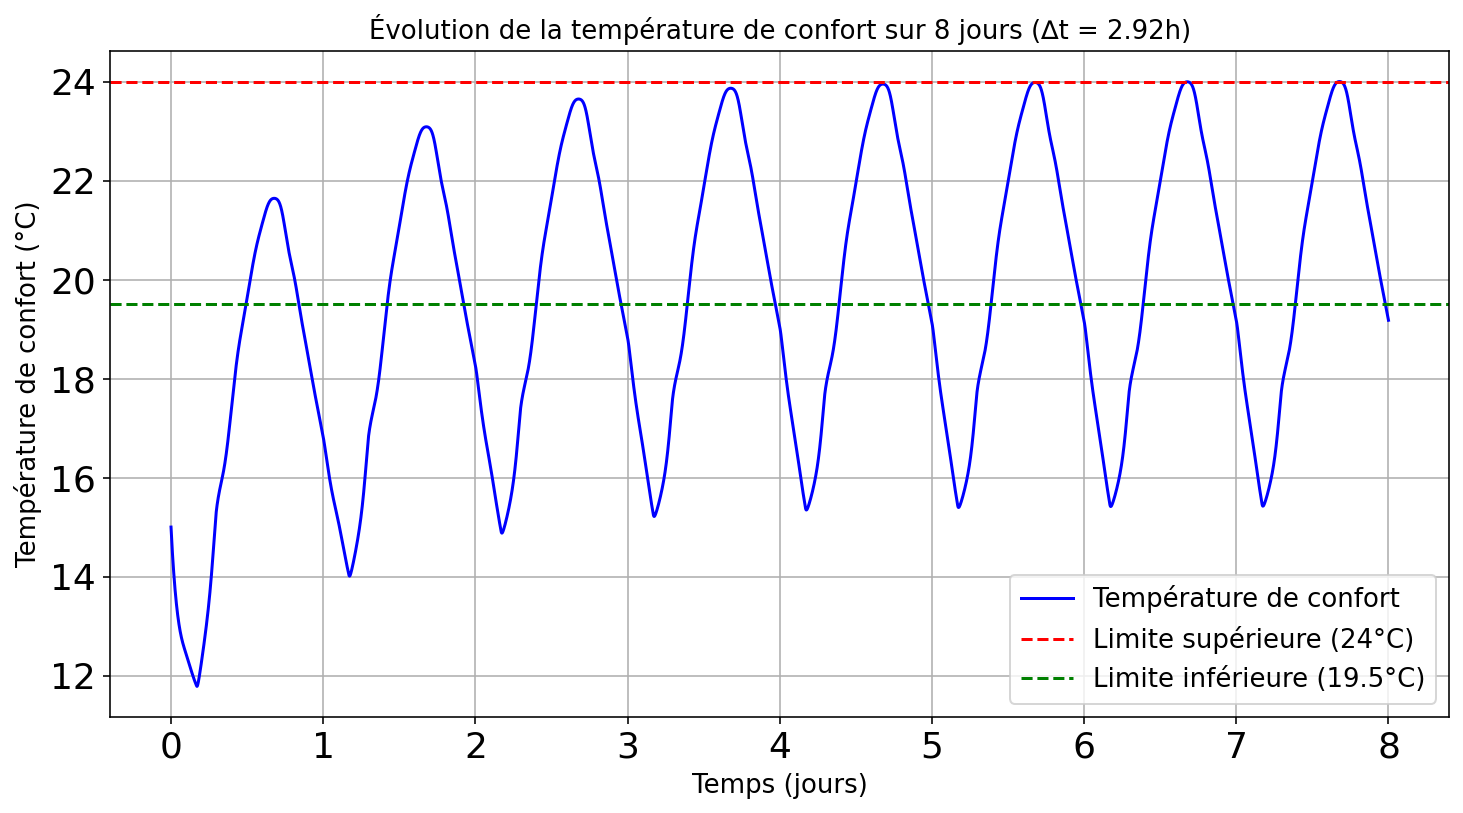
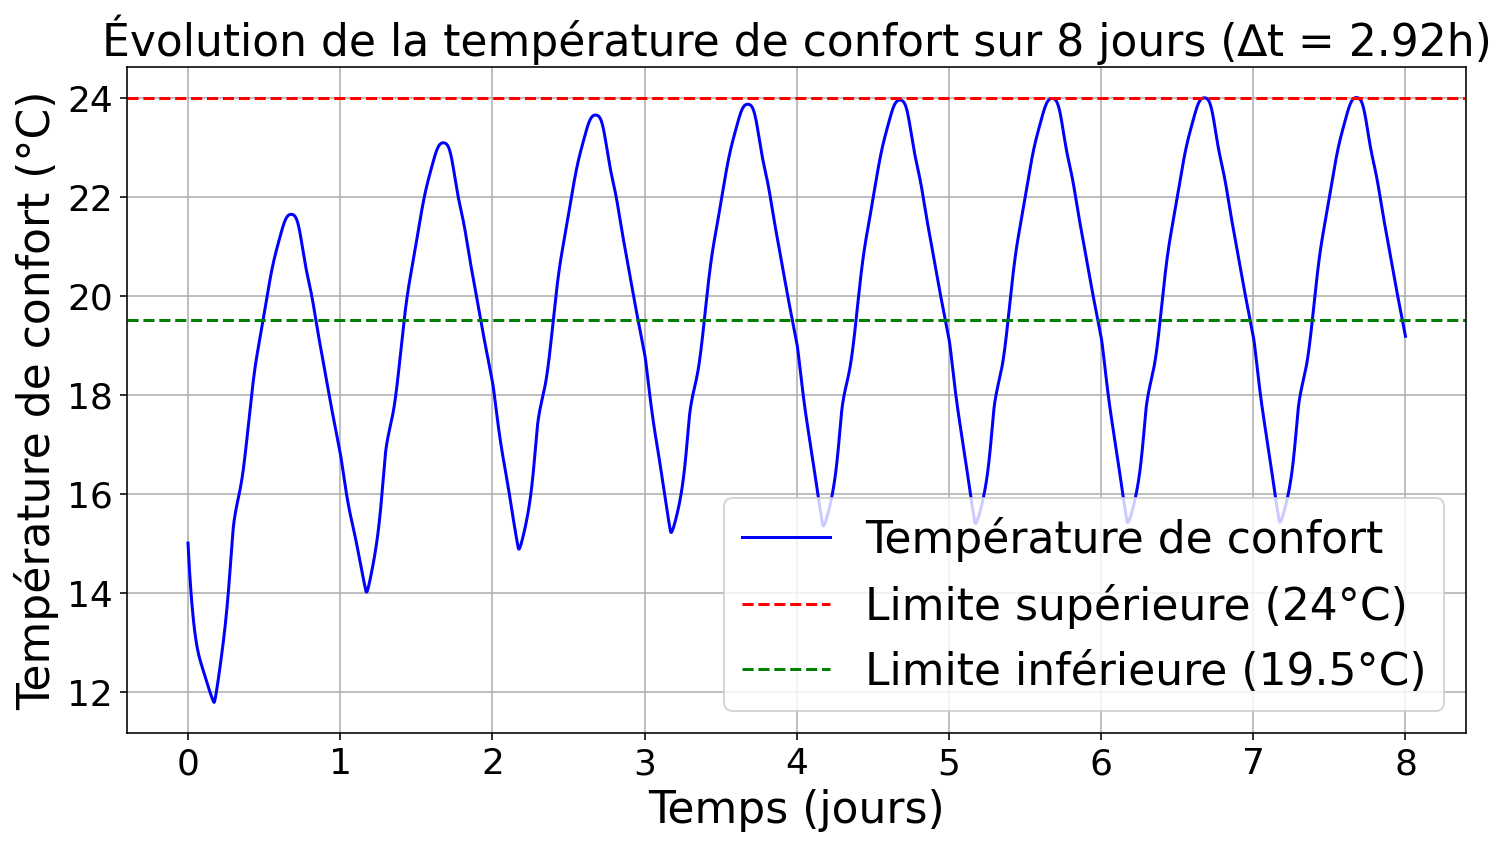
chore: plot fontsize

diff --git a/SimTABS.py b/SimTABS.py
@@ -779,11 +779,11 @@ plt.figure(figsize=(12, 6))
 plt.plot(t_stat, T_max, 'b-', label='Température de confort')
 plt.axhline(y=T_max_d, color='g', linestyle='--', label=f'T_max désirée = {T_max_d}°C')
 plt.axhline(y=T_max[-1], color='r', linestyle='--', label=f'T_max atteinte = {T_max[-1]:.2f}°C')
-plt.xlabel("Temps (jours)", fontsize=13)
-plt.ylabel("Température de confort (°C)", fontsize=13)
-plt.title(f"Évolution de la température de confort à l'état stationnaire (∆t = {delta_t_optimal:.2f}h)", fontsize=13)
+plt.xlabel("Temps (jours)", fontsize=22)
+plt.ylabel("Température de confort (°C)", fontsize=22)
+plt.title(f"Évolution de la température de confort à l'état stationnaire (∆t = {delta_t_optimal:.2f}h)", fontsize=22)
 plt.grid(True)
-plt.legend(fontsize=13)
+plt.legend(fontsize=22)
 plt.show()
 
 
@@ -823,11 +823,11 @@ plt.figure(figsize=(12, 6))
 plt.plot(t_complet/24, T_confort, 'b-', label='Température de confort')
 plt.axhline(y=24, color='r', linestyle='--', label='Limite supérieure (24°C)')
 plt.axhline(y=19.5, color='g', linestyle='--', label='Limite inférieure (19.5°C)')
-plt.xlabel("Temps (jours)", fontsize=13)
-plt.ylabel("Température de confort (°C)", fontsize=13)
-plt.title(f"Évolution de la température de confort sur {nb_jours} jours (∆t = {delta_t_optimal:.2f}h)", fontsize=13)
+plt.xlabel("Temps (jours)", fontsize=22)
+plt.ylabel("Température de confort (°C)", fontsize=22)
+plt.title(f"Évolution de la température de confort sur {nb_jours} jours (∆t = {delta_t_optimal:.2f}h)", fontsize=22)
 plt.grid(True)
-plt.legend(fontsize=13)
+plt.legend(fontsize=22)
 plt.show()
 
 # Graphique détaillé du dernier jour
